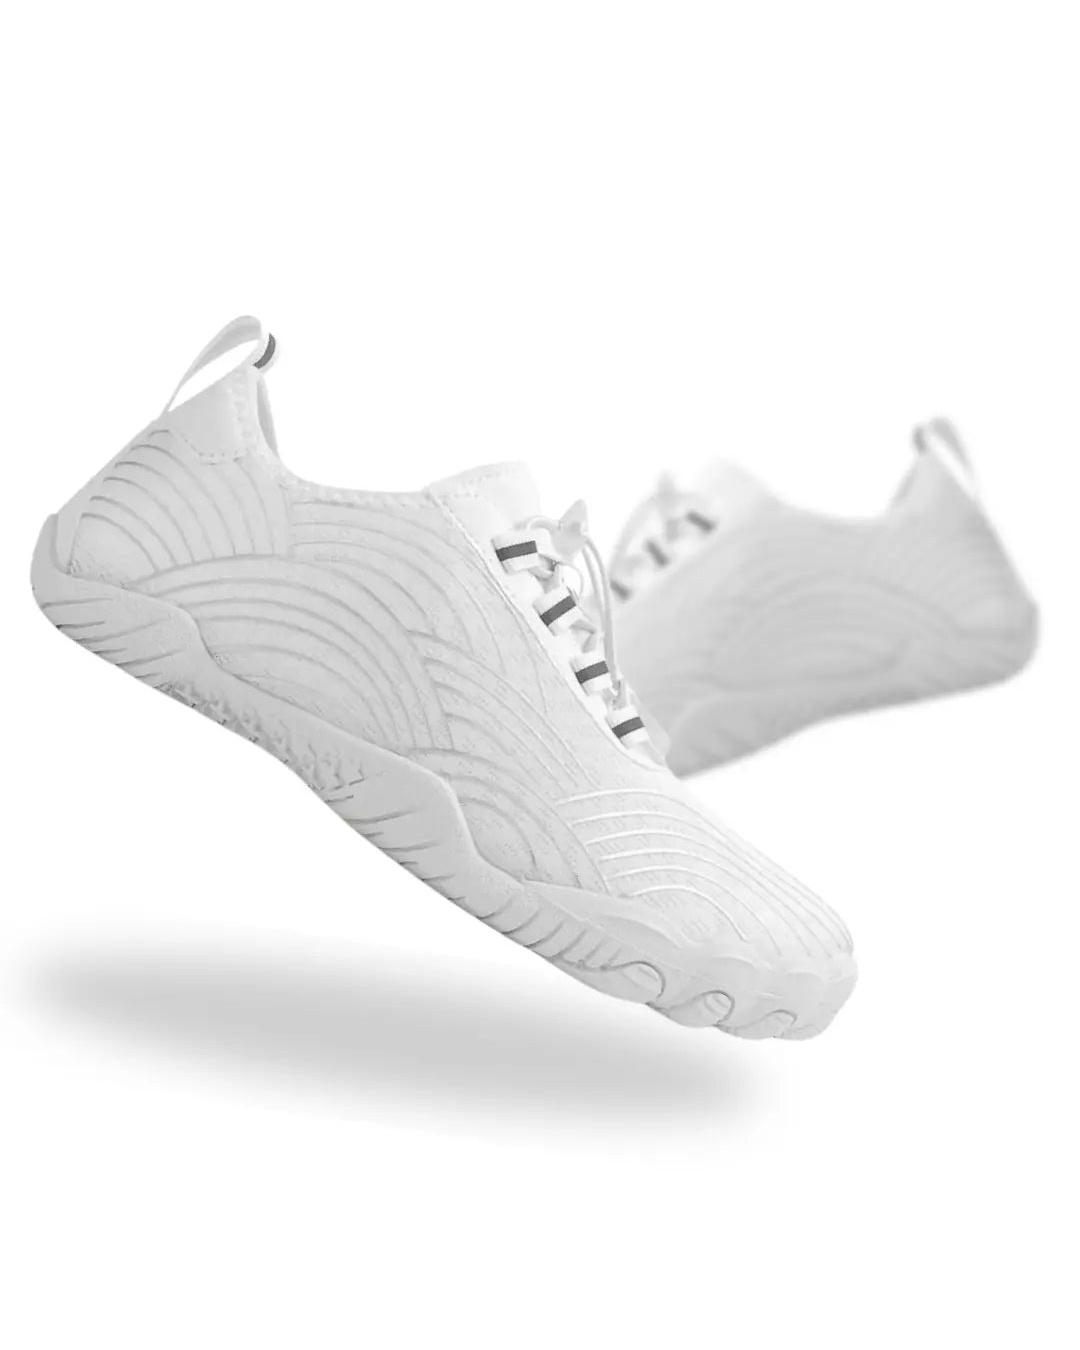
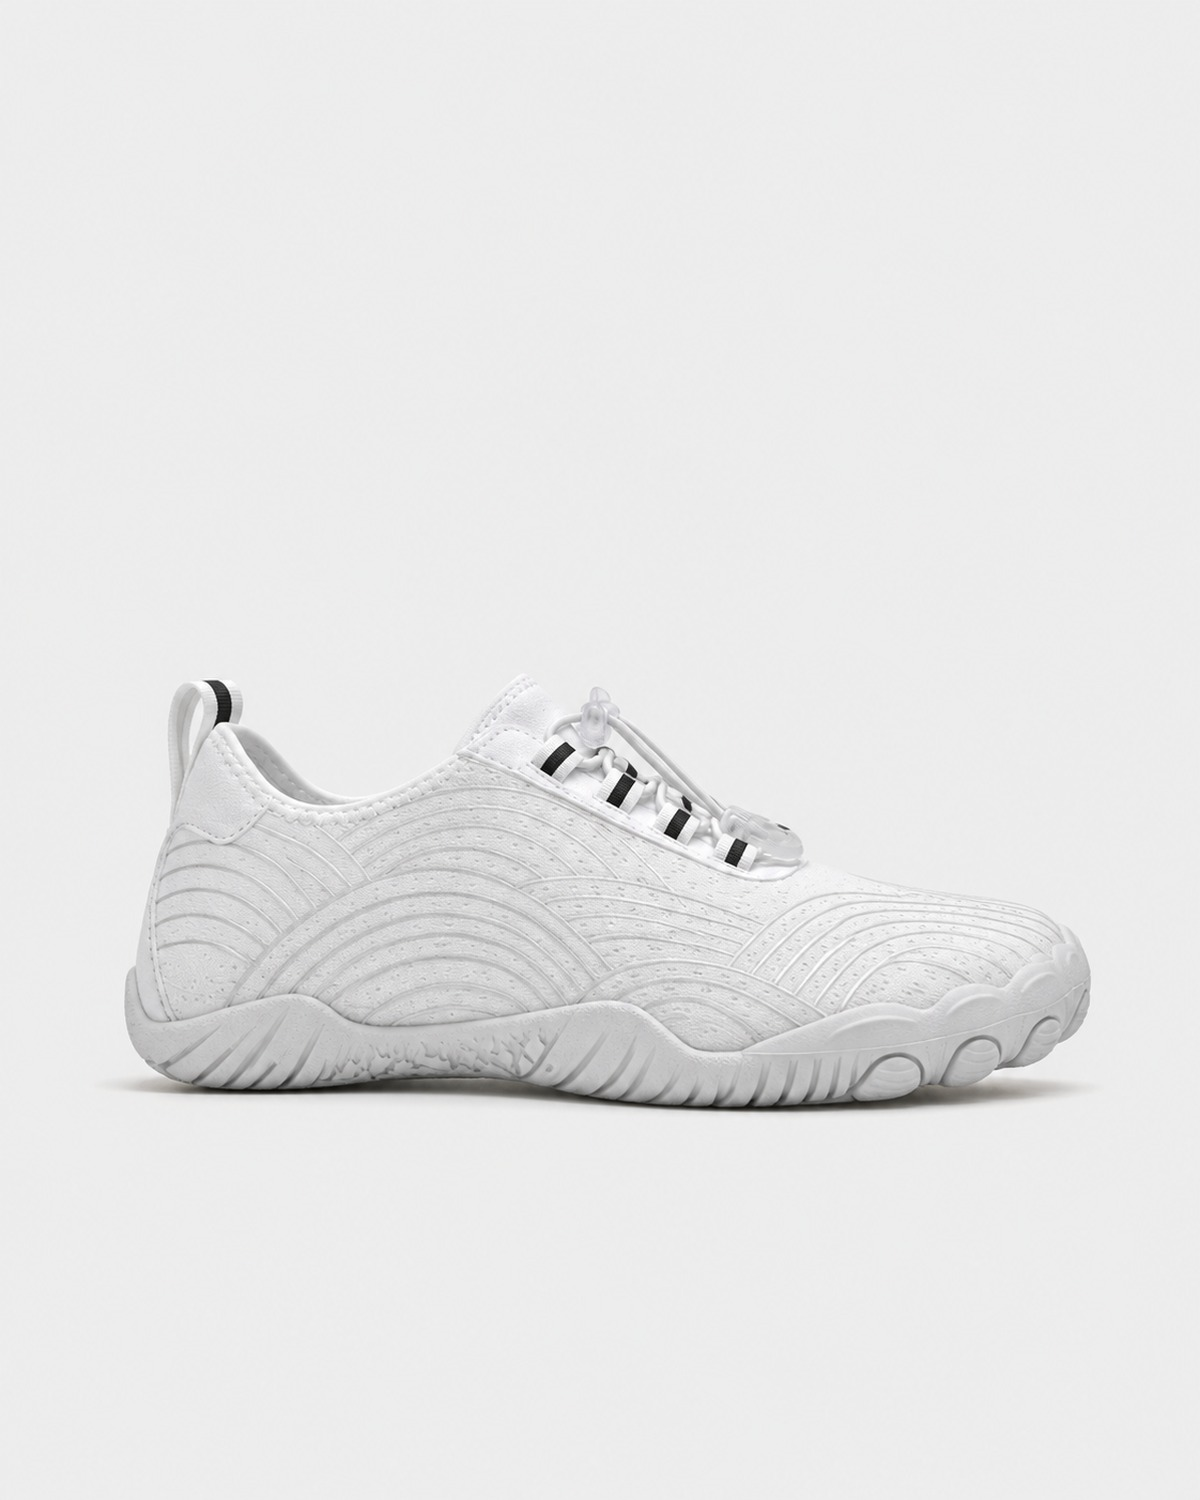
feat: upgrade Clouders White 9-asset master gallery and SEO alt text suite

Changed region(s): [[0.0306, 0.2178, 0.9778, 0.8089], [0.5194, 0.3733, 0.55, 0.4044], [0.2444, 0.3111, 0.275, 0.3422]]

diff --git a/apps/uk/src/components/product/GalleryGrid.tsx b/apps/uk/src/components/product/GalleryGrid.tsx
@@ -9,6 +9,23 @@ interface GalleryGridProps {
   title: string;
 }
 
+function getAltText(src: string, title: string, index: number): string {
+  try {
+    const filename = src.split("/").pop()?.replace(/\.[^/.]+$/, "") || "";
+    if (filename.startsWith("buudy-barefoot-shoes-")) {
+      const parts = filename.replace(/^buudy-barefoot-shoes-/, "").split("-");
+      if (parts.length >= 3) {
+        const descriptor = parts
+          .slice(2)
+          .map((w) => w.charAt(0).toUpperCase() + w.slice(1))
+          .join(" ");
+        return `${title} - ${descriptor}`;
+      }
+    }
+  } catch {}
+  return `${title}, view ${index + 1}`;
+}
+
 export function GalleryGrid({ images, title }: GalleryGridProps) {
   const [activeZoomIdx, setActiveZoomIdx] = useState<number | null>(null);
   const [mobileIdx, setMobileIdx] = useState(0);
@@ -58,7 +75,7 @@ export function GalleryGrid({ images, title }: GalleryGridProps) {
               >
                 <Image
                   src={src}
-                  alt={`${title}, view ${index + 1}`}
+                  alt={getAltText(src, title, index)}
                   fill
                   priority={index < 2}
                   loading={index < 2 ? "eager" : "lazy"}
@@ -103,7 +120,7 @@ export function GalleryGrid({ images, title }: GalleryGridProps) {
               >
                 <Image
                   src={src}
-                  alt={`${title}, view ${index + 1}`}
+                  alt={getAltText(src, title, index)}
                   fill
                   priority={index === 0}
                   loading={index === 0 ? "eager" : "lazy"}
@@ -168,7 +185,7 @@ export function GalleryGrid({ images, title }: GalleryGridProps) {
           <div className="absolute inset-0 lg:left-[96px]">
             <Image
               src={images[activeZoomIdx]}
-              alt={`${title}, enlarged view ${activeZoomIdx + 1}`}
+              alt={getAltText(images[activeZoomIdx], title, activeZoomIdx)}
               fill
               sizes="100vw"
               className="object-contain lg:object-cover"

diff --git a/apps/au/src/components/product/GalleryGrid.tsx b/apps/au/src/components/product/GalleryGrid.tsx
@@ -9,6 +9,23 @@ interface GalleryGridProps {
   title: string;
 }
 
+function getAltText(src: string, title: string, index: number): string {
+  try {
+    const filename = src.split("/").pop()?.replace(/\.[^/.]+$/, "") || "";
+    if (filename.startsWith("buudy-barefoot-shoes-")) {
+      const parts = filename.replace(/^buudy-barefoot-shoes-/, "").split("-");
+      if (parts.length >= 3) {
+        const descriptor = parts
+          .slice(2)
+          .map((w) => w.charAt(0).toUpperCase() + w.slice(1))
+          .join(" ");
+        return `${title} - ${descriptor}`;
+      }
+    }
+  } catch {}
+  return `${title} - view ${index + 1}`;
+}
+
 export function GalleryGrid({ images, title }: GalleryGridProps) {
   const [activeZoomIdx, setActiveZoomIdx] = useState<number | null>(null);
   const [mobileIdx, setMobileIdx] = useState(0);
@@ -40,7 +57,7 @@ export function GalleryGrid({ images, title }: GalleryGridProps) {
             >
               <Image
                 src={src}
-                alt={`${title} - view ${idx + 1}`}
+                alt={getAltText(src, title, idx)}
                 fill
                 priority={idx < 4}
                 loading={idx < 4 ? "eager" : "eager"}
@@ -79,7 +96,7 @@ export function GalleryGrid({ images, title }: GalleryGridProps) {
               >
                 <Image
                   src={src}
-                  alt={`${title} - view ${idx + 1}`}
+                  alt={getAltText(src, title, idx)}
                   fill
                   priority={idx === 0}
                   loading="eager"
@@ -124,7 +141,7 @@ export function GalleryGrid({ images, title }: GalleryGridProps) {
           <div className="relative flex-1 w-full my-4 flex items-center justify-center">
             <Image
               src={images[activeZoomIdx]}
-              alt={`${title} zoomed`}
+              alt={getAltText(images[activeZoomIdx], title, activeZoomIdx)}
               fill
               sizes="100vw"
               className="object-contain"

diff --git a/apps/us/src/components/product/GalleryGrid.tsx b/apps/us/src/components/product/GalleryGrid.tsx
@@ -9,6 +9,23 @@ interface GalleryGridProps {
   title: string;
 }
 
+function getAltText(src: string, title: string, index: number): string {
+  try {
+    const filename = src.split("/").pop()?.replace(/\.[^/.]+$/, "") || "";
+    if (filename.startsWith("buudy-barefoot-shoes-")) {
+      const parts = filename.replace(/^buudy-barefoot-shoes-/, "").split("-");
+      if (parts.length >= 3) {
+        const descriptor = parts
+          .slice(2)
+          .map((w) => w.charAt(0).toUpperCase() + w.slice(1))
+          .join(" ");
+        return `${title} - ${descriptor}`;
+      }
+    }
+  } catch {}
+  return `${title} - view ${index + 1}`;
+}
+
 export function GalleryGrid({ images, title }: GalleryGridProps) {
   const [activeZoomIdx, setActiveZoomIdx] = useState<number | null>(null);
   const [mobileIdx, setMobileIdx] = useState(0);
@@ -40,7 +57,7 @@ export function GalleryGrid({ images, title }: GalleryGridProps) {
             >
               <Image
                 src={src}
-                alt={`${title} - view ${idx + 1}`}
+                alt={getAltText(src, title, idx)}
                 fill
                 priority={idx < 4}
                 loading={idx < 4 ? "eager" : "eager"}
@@ -79,7 +96,7 @@ export function GalleryGrid({ images, title }: GalleryGridProps) {
               >
                 <Image
                   src={src}
-                  alt={`${title} - view ${idx + 1}`}
+                  alt={getAltText(src, title, idx)}
                   fill
                   priority={idx === 0}
                   loading="eager"
@@ -124,7 +141,7 @@ export function GalleryGrid({ images, title }: GalleryGridProps) {
           <div className="relative flex-1 w-full my-4 flex items-center justify-center">
             <Image
               src={images[activeZoomIdx]}
-              alt={`${title} zoomed`}
+              alt={getAltText(images[activeZoomIdx], title, activeZoomIdx)}
               fill
               sizes="100vw"
               className="object-contain"

diff --git a/apps/au/src/data/products.ts b/apps/au/src/data/products.ts
@@ -213,14 +213,17 @@ export const PRODUCTS: BarefootProduct[] = [
     compareAtPrice: 179,
     currencySymbol: "A$",
     primaryImage: "/media/products/clouders-white/buudy-barefoot-shoes-clouders-white-wide-toe-box-hero.jpg",
-    secondaryImage: "/media/products/clouders-white/buudy-barefoot-shoes-clouders-white-side-profile.jpg",
+    secondaryImage: "/media/products/clouders-white/buudy-barefoot-shoes-clouders-white-on-foot-action-step.jpg",
     galleryImages: [
       "/media/products/clouders-white/buudy-barefoot-shoes-clouders-white-wide-toe-box-hero.jpg",
-      "/media/products/clouders-white/buudy-barefoot-shoes-clouders-white-side-profile.jpg",
-      "/media/products/clouders-white/buudy-barefoot-shoes-clouders-white-angle-perspective.jpg",
-      "/media/products/clouders-white/buudy-barefoot-shoes-clouders-white-front-wide-toe-box.jpg",
-      "/media/products/clouders-white/buudy-barefoot-shoes-clouders-white-heel-counter.jpg",
-      "/media/products/clouders-white/buudy-barefoot-shoes-clouders-white-top-down-view.jpg",
+      "/media/products/clouders-white/buudy-barefoot-shoes-clouders-white-on-foot-action-step.jpg",
+      "/media/products/clouders-white/buudy-barefoot-shoes-clouders-white-on-foot-standing-pair.jpg",
+      "/media/products/clouders-white/buudy-barefoot-shoes-clouders-white-on-foot-rear-heel-view.jpg",
+      "/media/products/clouders-white/buudy-barefoot-shoes-clouders-white-in-hand-featherlight-display.jpg",
+      "/media/products/clouders-white/buudy-barefoot-shoes-clouders-white-speed-bungee-lace-toggle.jpg",
+      "/media/products/clouders-white/buudy-barefoot-shoes-clouders-white-top-down-anatomical-view.jpg",
+      "/media/products/clouders-white/buudy-barefoot-shoes-clouders-white-studio-editorial-pair.jpg",
+      "/media/products/clouders-white/buudy-barefoot-shoes-clouders-white-outsole-tread-grip.jpg",
     ],
     badge: "Most Wanted",
     badgeType: "dark",

diff --git a/apps/uk/src/data/products.ts b/apps/uk/src/data/products.ts
@@ -213,14 +213,17 @@ export const PRODUCTS: BarefootProduct[] = [
     compareAtPrice: 99,
     currencySymbol: "£",
     primaryImage: "/media/products/clouders-white/buudy-barefoot-shoes-clouders-white-wide-toe-box-hero.jpg",
-    secondaryImage: "/media/products/clouders-white/buudy-barefoot-shoes-clouders-white-side-profile.jpg",
+    secondaryImage: "/media/products/clouders-white/buudy-barefoot-shoes-clouders-white-on-foot-action-step.jpg",
     galleryImages: [
       "/media/products/clouders-white/buudy-barefoot-shoes-clouders-white-wide-toe-box-hero.jpg",
-      "/media/products/clouders-white/buudy-barefoot-shoes-clouders-white-side-profile.jpg",
-      "/media/products/clouders-white/buudy-barefoot-shoes-clouders-white-angle-perspective.jpg",
-      "/media/products/clouders-white/buudy-barefoot-shoes-clouders-white-front-wide-toe-box.jpg",
-      "/media/products/clouders-white/buudy-barefoot-shoes-clouders-white-heel-counter.jpg",
-      "/media/products/clouders-white/buudy-barefoot-shoes-clouders-white-top-down-view.jpg",
+      "/media/products/clouders-white/buudy-barefoot-shoes-clouders-white-on-foot-action-step.jpg",
+      "/media/products/clouders-white/buudy-barefoot-shoes-clouders-white-on-foot-standing-pair.jpg",
+      "/media/products/clouders-white/buudy-barefoot-shoes-clouders-white-on-foot-rear-heel-view.jpg",
+      "/media/products/clouders-white/buudy-barefoot-shoes-clouders-white-in-hand-featherlight-display.jpg",
+      "/media/products/clouders-white/buudy-barefoot-shoes-clouders-white-speed-bungee-lace-toggle.jpg",
+      "/media/products/clouders-white/buudy-barefoot-shoes-clouders-white-top-down-anatomical-view.jpg",
+      "/media/products/clouders-white/buudy-barefoot-shoes-clouders-white-studio-editorial-pair.jpg",
+      "/media/products/clouders-white/buudy-barefoot-shoes-clouders-white-outsole-tread-grip.jpg",
     ],
     badge: "Most Wanted",
     badgeType: "dark",

diff --git a/apps/us/src/data/products.ts b/apps/us/src/data/products.ts
@@ -213,14 +213,17 @@ export const PRODUCTS: BarefootProduct[] = [
     compareAtPrice: 119,
     currencySymbol: "$",
     primaryImage: "/media/products/clouders-white/buudy-barefoot-shoes-clouders-white-wide-toe-box-hero.jpg",
-    secondaryImage: "/media/products/clouders-white/buudy-barefoot-shoes-clouders-white-side-profile.jpg",
+    secondaryImage: "/media/products/clouders-white/buudy-barefoot-shoes-clouders-white-on-foot-action-step.jpg",
     galleryImages: [
       "/media/products/clouders-white/buudy-barefoot-shoes-clouders-white-wide-toe-box-hero.jpg",
-      "/media/products/clouders-white/buudy-barefoot-shoes-clouders-white-side-profile.jpg",
-      "/media/products/clouders-white/buudy-barefoot-shoes-clouders-white-angle-perspective.jpg",
-      "/media/products/clouders-white/buudy-barefoot-shoes-clouders-white-front-wide-toe-box.jpg",
-      "/media/products/clouders-white/buudy-barefoot-shoes-clouders-white-heel-counter.jpg",
-      "/media/products/clouders-white/buudy-barefoot-shoes-clouders-white-top-down-view.jpg",
+      "/media/products/clouders-white/buudy-barefoot-shoes-clouders-white-on-foot-action-step.jpg",
+      "/media/products/clouders-white/buudy-barefoot-shoes-clouders-white-on-foot-standing-pair.jpg",
+      "/media/products/clouders-white/buudy-barefoot-shoes-clouders-white-on-foot-rear-heel-view.jpg",
+      "/media/products/clouders-white/buudy-barefoot-shoes-clouders-white-in-hand-featherlight-display.jpg",
+      "/media/products/clouders-white/buudy-barefoot-shoes-clouders-white-speed-bungee-lace-toggle.jpg",
+      "/media/products/clouders-white/buudy-barefoot-shoes-clouders-white-top-down-anatomical-view.jpg",
+      "/media/products/clouders-white/buudy-barefoot-shoes-clouders-white-studio-editorial-pair.jpg",
+      "/media/products/clouders-white/buudy-barefoot-shoes-clouders-white-outsole-tread-grip.jpg",
     ],
     badge: "Most Wanted",
     badgeType: "dark",

diff --git a/CONTEXT.md b/CONTEXT.md
@@ -102,3 +102,20 @@ This file is an append-only operational history for `E:\1st YEAR DTU\New folder\
 - Full local/source verification, image correction history, protected scope, and filenames are in the preceding entry and remain unchanged. The consolidated exact prompt set is saved as `final-prompt-set.json` in the external `roamers-ash-gray-work` artifact folder. Built-in imagegen was used; no API/CLI generation fallback.
 - This addendum changes only the append-only repository memory and is being included in a final documentation commit/push so the repository remains clean. The workspace context records the final documentation commit ID after confirmation. Historical context-prefix checks passed; no earlier detail was deleted or condensed.
 - No new branch, PR, force push, merge/rebase/reset/stash, manual Vercel deployment/promotion, production setting/domain/environment change, checkout/order, or source-site write occurred. Only the explicitly authorized GitHub commit/push workflow published the change. No remaining implementation or publication work; physical-device/Safari checks and unrelated product/country/checkout flows were not run because they are outside this gallery-only task.
+
+## 2026-09-05 15:53:00 +05:30 - Clouders White 9-Asset Master Gallery & SEO Alt Text Integration
+
+- Repository/route: `E:\1st YEAR DTU\New folder\Barefoot_shoes_vercel`; `https://barefoot-shoes-uk.vercel.app/products/clouders-barefoot-shoes-white`.
+- Scope: Deployed 9 master 4:5 aspect ratio (`1200x1500`) assets for `clouders-barefoot-shoes-white` adhering 1:1 to ETQ Amsterdam reference order (`rs-03-white-cement-grey`):
+  1. `buudy-barefoot-shoes-clouders-white-wide-toe-box-hero.jpg` (Lateral side profile solo hero on clean studio background)
+  2. `buudy-barefoot-shoes-clouders-white-on-foot-action-step.jpg` (On-foot dynamic walking action step in denim jeans)
+  3. `buudy-barefoot-shoes-clouders-white-on-foot-standing-pair.jpg` (On-foot 3/4 standing angle pair top-down view)
+  4. `buudy-barefoot-shoes-clouders-white-on-foot-rear-heel-view.jpg` (On-foot rear view showing heels and pull tabs in denim jeans)
+  5. `buudy-barefoot-shoes-clouders-white-in-hand-featherlight-display.jpg` (In-hand featherlight display holding the shoe)
+  6. `buudy-barefoot-shoes-clouders-white-speed-bungee-lace-toggle.jpg` (Macro close-up speed bungee toggle lock and breathable textured upper)
+  7. `buudy-barefoot-shoes-clouders-white-top-down-anatomical-view.jpg` (Top-down vertical bird's-eye view of single shoe and footbed)
+  8. `buudy-barefoot-shoes-clouders-white-studio-editorial-pair.jpg` (3/4 studio editorial pair perspective)
+  9. `buudy-barefoot-shoes-clouders-white-outsole-tread-grip.jpg` (Flexible multi-directional high-traction outsole tread grip)
+- SEO Alt Text: Configured semantic `getAltText` resolver in `GalleryGrid.tsx` across `apps/uk`, `apps/us`, `apps/au` rendering descriptive, keyword-rich alt tags on desktop, mobile, and modal zoom dialogs.
+- Monorepo Sync: Deployed across `apps/uk`, `apps/us`, and `apps/au`, synchronized `products.ts` gallery mapping, deleted legacy obsolete assets in `clouders-white/`, and verified full Turborepo SSG compilation (153 static pages prerendered with 0 errors).
+
